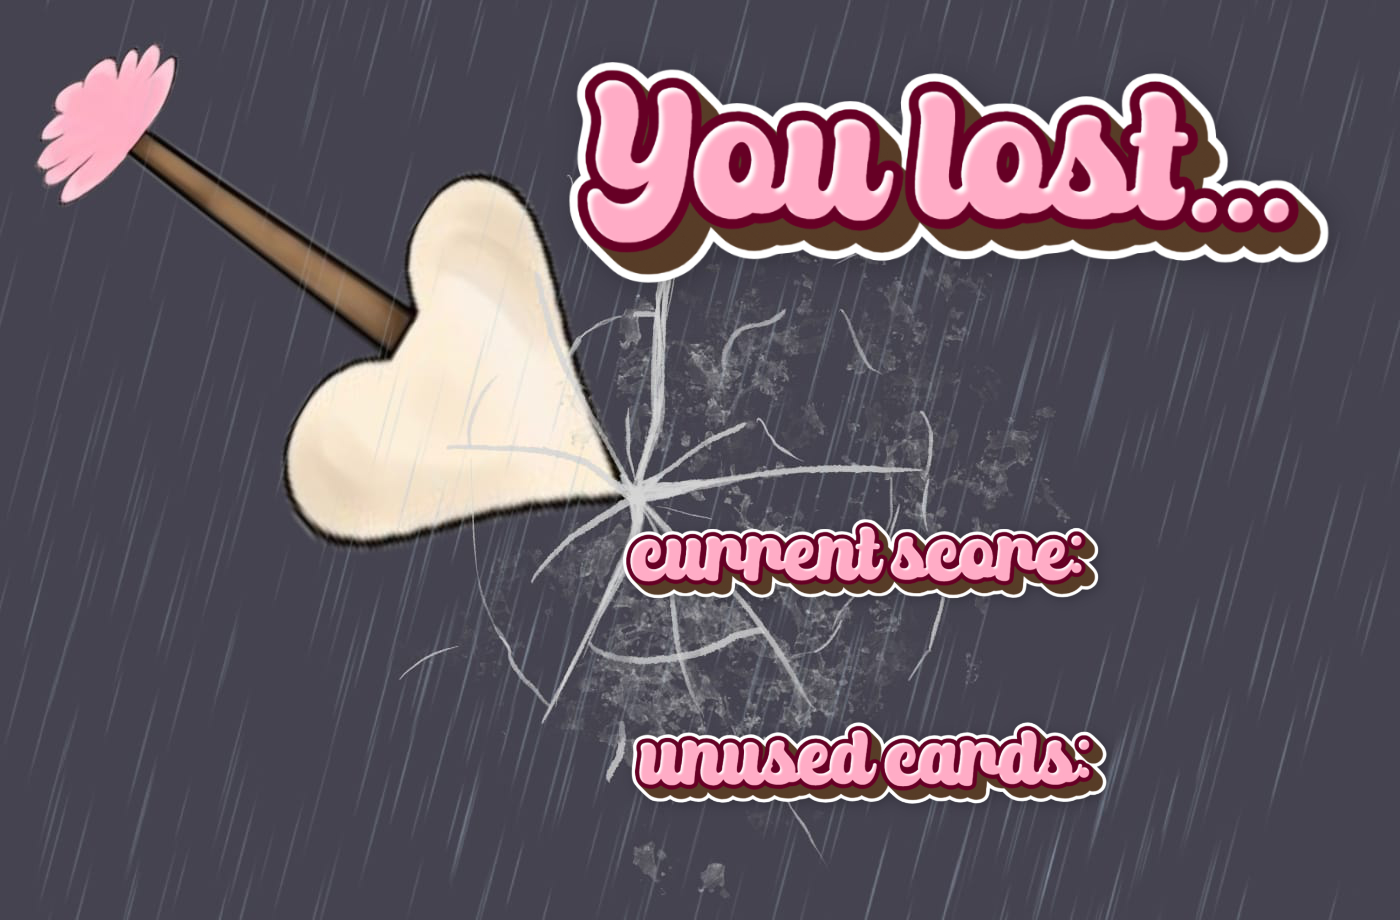
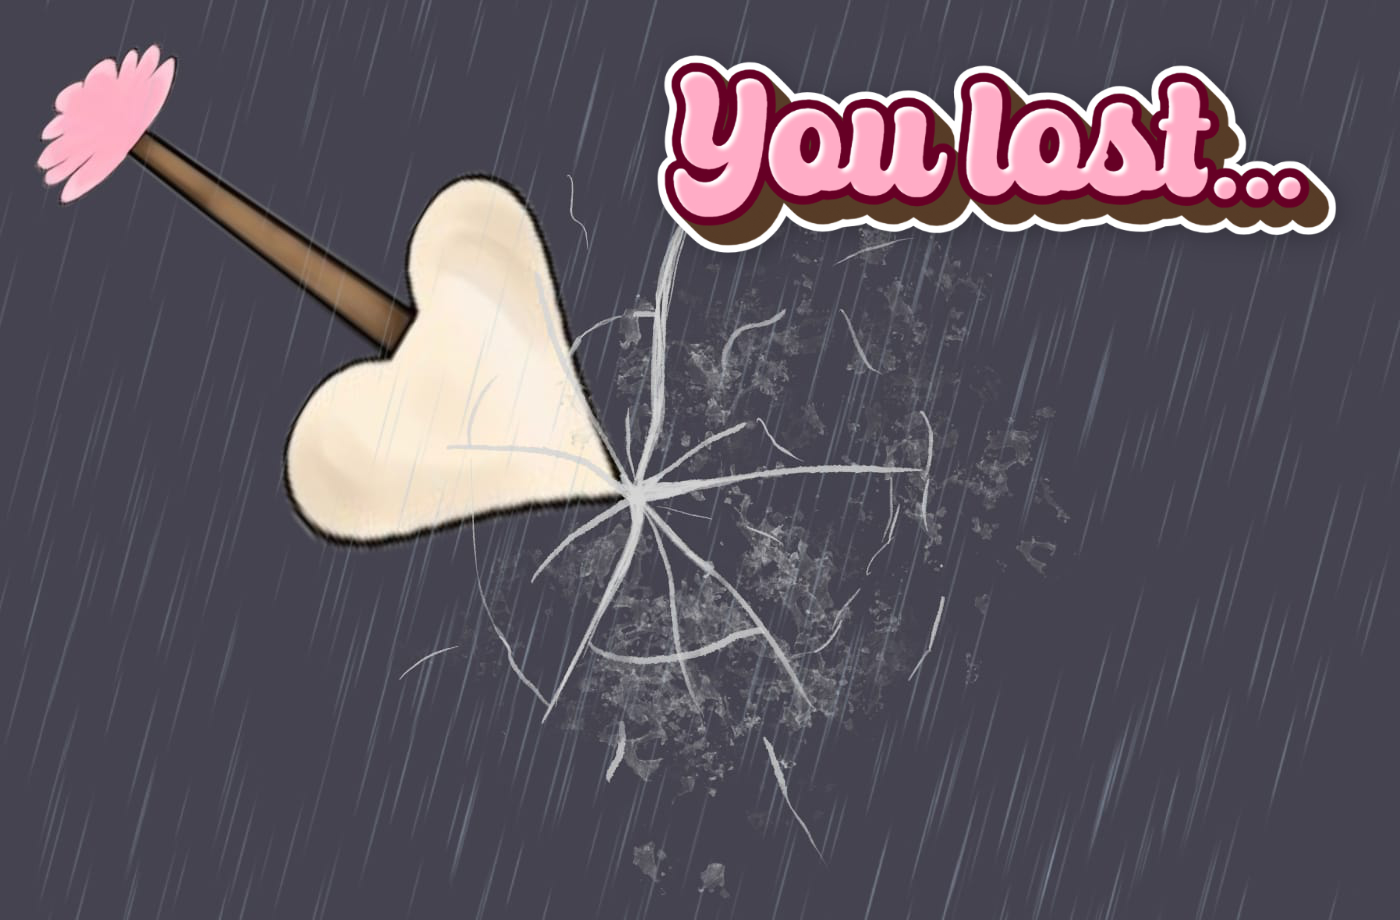
Implemented the endgame.

Changed region(s): [[0.3993, 0.0609, 0.9521, 0.3043], [0.43, 0.5478, 0.7986, 0.6696], [0.43, 0.7913, 0.7986, 0.8826]]

diff --git a/ProjectMCmock_up/GameServer.cpp b/ProjectMCmock_up/GameServer.cpp
@@ -419,7 +419,7 @@ void http::Routing::Run(UserProfiles& storage)
 			});
 	
 
-			CROW_ROUTE(m_app, "/game/<int>/state").methods(crow::HTTPMethod::GET)
+		CROW_ROUTE(m_app, "/game/<int>/state").methods(crow::HTTPMethod::GET)
 			([this, &storage](int gameId) {
 			std::lock_guard<std::mutex> lk(m_lobbyMutex);
 			auto it = m_activeGames.find(gameId);
@@ -431,8 +431,6 @@ void http::Routing::Run(UserProfiles& storage)
 
 			crow::json::wvalue resp;
 			resp["gameId"] = gameId;
-
-			// **ADD TURN INFO HERE**
 			try {
 				const Player& currentPlayer = gameInst.GetCurrentPlayer();
 				resp["currentPlayerIndex"] = gameInst.GetCurrentPlayerIndex();
@@ -444,8 +442,22 @@ void http::Routing::Run(UserProfiles& storage)
 				resp["currentPlayerId"] = -1;
 				resp["currentPlayerName"] = "Unknown";
 			}
+			auto status = gameInst.GetGameStatus();
+			switch (status) {
+			case Game::GameStatus::Won:
+				resp["gameStatus"] = "won";
+				resp["gameMessage"] = "You won!";
+				break;
+			case Game::GameStatus::Lost:
+				resp["gameStatus"] = "lost";
+				resp["gameMessage"] = "Game over - you lost";
+				break;
+			default:
+				resp["gameStatus"] = "playing";
+				resp["gameMessage"] = "Game in progress";
+			}
 
-			// piles (existing)
+			// piles
 			resp["piles"] = std::vector<crow::json::wvalue>{
 				gameInst.GetDescendingDeck1().GetNumber(),
 				gameInst.GetDescendingDeck2().GetNumber(),
@@ -453,14 +465,15 @@ void http::Routing::Run(UserProfiles& storage)
 				gameInst.GetAscendingDeck2().GetNumber()
 			};
 
-			// players (existing)
+			// players
 			std::vector<crow::json::wvalue> playersArray;
 			for (const auto& player : gameInst.GetPlayers()) {
 				crow::json::wvalue playerJson;
 				playerJson["id"] = player.GetId();
 				playerJson["username"] = player.GetUsername();
-				playerJson["cardsPlacedThisTurn"] = player.GetCardsPlacedThisTurn();
+				playerJson["cardsPlacedThisTurn"] = player.GetCardsPlacedThisTurn(); // ADAUGĂ
 
+				// hand
 				std::vector<crow::json::wvalue> handArray;
 				for (const auto& card : player.GetHand()) {
 					handArray.push_back(card.GetNumber());
@@ -524,20 +537,15 @@ void http::Routing::Run(UserProfiles& storage)
 			Game& gameInst = it->second;
 
 			try {
-				// **VALIDATE IT'S THIS PLAYER'S TURN**
-				if (gameInst.GetCurrentPlayer().GetId() != playerId) {
-					crow::json::wvalue errorResp;
-					errorResp["success"] = false;
-					errorResp["error"] = "Not your turn";
-					return crow::response(403, errorResp.dump());
-				}
-
 				Player& player = gameInst.GetPlayer(playerId);
 
 				int cardsPlaced = player.GetCardsPlacedThisTurn();
 				int cardsInDeck = gameInst.GetCardsDeck().size();
+
+				// Determină numărul minim de cărți necesare
 				int minCardsRequired = (cardsInDeck > 0) ? 2 : 1;
 
+				// Verifică dacă jucătorul a plasat numărul minim de cărți
 				if (cardsPlaced < minCardsRequired) {
 					crow::json::wvalue errorResp;
 					errorResp["success"] = false;
@@ -548,9 +556,10 @@ void http::Routing::Run(UserProfiles& storage)
 					return crow::response(400, errorResp.dump());
 				}
 
+				// Trage cărțile din teanc (număr egal cu cărțile plasate, dar max cât există)
 				int cardsToDraw = std::min(cardsPlaced, cardsInDeck);
-				std::vector<int> drawnCards;
 
+				std::vector<int> drawnCards;
 				for (int i = 0; i < cardsToDraw; i++) {
 					if (!gameInst.GetCardsDeck().empty()) {
 						Card drawnCard = gameInst.GetCardsDeck().top();
@@ -560,11 +569,9 @@ void http::Routing::Run(UserProfiles& storage)
 					}
 				}
 
+				// Reset contorul pentru următoarea tură
 				player.ResetCardsPlacedThisTurn();
-
-				// **ADVANCE TO NEXT TURN**
-				gameInst.AdvanceTurn(1);
-				const Player& nextPlayer = gameInst.GetCurrentPlayer();
+				gameInst.AdvanceTurn();
 
 				crow::json::wvalue resp;
 				resp["success"] = true;
@@ -573,32 +580,27 @@ void http::Routing::Run(UserProfiles& storage)
 				resp["cardsDrawn"] = drawnCards.size();
 				resp["cardsLeftInDeck"] = gameInst.GetCardsDeck().size();
 
-				// Include next player info
-				resp["nextPlayerId"] = nextPlayer.GetId();
-				resp["nextPlayerName"] = nextPlayer.GetUsername();
-
+				// Adaugă lista de cărți trase
 				int idx = 0;
 				for (int cardVal : drawnCards) {
 					resp["drawnCardValues"][idx++] = cardVal;
 				}
 
+				// Mesaj pentru utilizator
 				if (cardsPlaced > 0 && cardsToDraw < cardsPlaced) {
 					resp["message"] = "You placed " + std::to_string(cardsPlaced) +
 						" cards and received " + std::to_string(cardsToDraw) +
-						" cards. Next: " + nextPlayer.GetUsername();
+						" cards because that's all that remained in the deck";
 				}
 				else if (cardsToDraw > 0) {
 					resp["message"] = "You placed " + std::to_string(cardsPlaced) +
-						" cards and drew " + std::to_string(cardsToDraw) +
-						" cards. Next: " + nextPlayer.GetUsername();
+						" cards and drew " + std::to_string(cardsToDraw) + " new cards";
 				}
 
 				return crow::response{ resp.dump() };
 			}
 			catch (const std::exception& e) {
-				crow::json::wvalue errorResp;
-				errorResp["error"] = std::string("Error: ") + e.what();
-				return crow::response(500, errorResp.dump());
+				return crow::response(400, R"({"error":")" + std::string(e.what()) + "\"}");
 			}
 				});
 

diff --git a/Client/GamePage.cpp b/Client/GamePage.cpp
@@ -106,6 +106,7 @@ void GamePage::FetchHand()
 			}
 
 			ShowCards(cardsValues);
+			fetchGameState();
 		}
 		else {
 			qDebug() << "Error fetching hand:" << reply->errorString();
@@ -231,6 +232,16 @@ void GamePage::fetchGameState()
 
 		QJsonObject obj = doc.object();
 
+		QString gameStatus = obj["gameStatus"].toString();
+		if (gameStatus == "won" || gameStatus == "lost") {
+			m_pollTimer->stop();
+			m_chatTimer.stop();
+			m_stateTimer.stop();
+			openEndgamePage(gameStatus);
+			reply->deleteLater();
+			return;
+		}
+
 		int currentPlayerId = obj["currentPlayerId"].toInt();
 		QString currentPlayerName = obj["currentPlayerName"].toString();
 		bool isMyTurn = (currentPlayerId == m_playerId);
@@ -242,7 +253,7 @@ void GamePage::fetchGameState()
 		ui.deckButton->setEnabled(isMyTurn);
 
 		if (isMyTurn) {
-			this->setWindowTitle(QString("YOUR TURN | Team: %1").arg(m_allPlayerNames.join(", ")));
+			this->setWindowTitle(QString("Your turn | Team: %1").arg(m_allPlayerNames.join(", ")));
 		}
 		else {
 			this->setWindowTitle(QString("%1's turn | Team: %2")
@@ -265,9 +276,9 @@ void GamePage::fetchGameState()
 		}
 
 		reply->deleteLater();
+		
 		});
 }
-
 
 void GamePage::shuffleDeck()
 {
@@ -369,7 +380,7 @@ void GamePage::initializeGame(int playerId,const QString& playerName, int gameId
 	updatePileVisual(ui.DescendingDeck1Number, 100);
 	updatePileVisual(ui.DescendingDeck2Number, 100);
 
-	fetchGameState();
+	//fetchGameState();
 
 }
 
@@ -487,6 +498,14 @@ void GamePage::checkTimers()
 		fetchGameState();
 		m_stateTimer.start(2);  // Restart pentru următorul ciclu
 	}
+}
+
+void GamePage::openEndgamePage(QString gameStatus)
+{
+
+	endgamePage = new EndgamePage(m_playerId, gameStatus,"http://127.0.0.1:18080", nullptr);
+	endgamePage->show();
+	this->close();
 }
 
 

diff --git a/ProjectMCmock_up/MinigameTimerState.h b/ProjectMCmock_up/MinigameTimerState.h
@@ -1,0 +1,7 @@
+-lexerul sparge codul in tokeni (unit lexicala, o categorie de siruri de  caract cu aceeasi semnificatie)
+-parserul verifica structura programului -> construieste un arbore de parsare
+-SyntaxAnalyzer de la noi face analiza semantica pe arborele creat de parser
+-VisitDeclaration analizează declarațiile locale, verifică erori semantice (dubluri, conflicte, tipuri, const) și înregistrează variabilele în scope-ul funcției curente.
+-VisitMethodDeclaration analizează o funcție: înregistrează parametrii, verifică corpul, return-ul, recursivitatea și gestionează scope-ul variabilelor.
+-VisitMethodDeclaration analizează o funcție: adaugă parametrii în scope, verifică corpul, return-ul și recursivitatea, apoi curăță scope-ul.
+-Analizatorul semantic parcurge arborele sintactic folosind Visitor Pattern și verifică regulile semantice ale programului.

diff --git a/ProjectMCmock_up/GAME.CPP b/ProjectMCmock_up/GAME.CPP
@@ -271,6 +271,23 @@ const Player& Game::GetCurrentPlayer() const
 	return m_players[m_currentPlayerIndex % m_players.size()];
 }
 
+Game::GameStatus Game::GetGameStatus() const
+{
+	if (m_cardsDeck.empty()) {
+		bool allHandsEmpty = true;
+		for (const auto& player : m_players) {
+			if (!player.GetHand().empty()) {
+				allHandsEmpty = false;
+				break;
+			}
+		}
+		if (allHandsEmpty) {
+			return GameStatus::Won;
+		}
+	}
+	return GameStatus::Playing;
+}
+
 void Game::SetCurrentPlayerIndex(size_t index)
 {
 	if (m_players.empty())
@@ -286,4 +303,9 @@ void Game::AdvanceTurn(int steps)
 	int idx = static_cast<int>(m_currentPlayerIndex);
 	idx = (idx + (steps % n) + n) % n;
 	m_currentPlayerIndex = static_cast<size_t>(idx);
+}
+
+bool Game::IsGameOver() const
+{
+	return GetGameStatus() != GameStatus::Playing;
 }

diff --git a/ProjectMCmock_up/Game.h b/ProjectMCmock_up/Game.h
@@ -8,6 +8,11 @@
 class Game
 {
 public:
+	enum class GameStatus {
+		Playing,
+		Won,
+		Lost
+	};
 	Game(const std::vector<Player>& players, const std::stack<Card>& cardsDeck, const Chat& chat);
 	Game() = default;
 	void ShuffleCards();
@@ -36,9 +41,11 @@ public:
 	size_t GetCurrentPlayerIndex() const;
 	Player& GetCurrentPlayer();
 	const Player& GetCurrentPlayer() const;
+	GameStatus GetGameStatus() const;
 
 	void SetCurrentPlayerIndex(size_t index);
 	void AdvanceTurn(int steps = 1);
+	bool IsGameOver() const;
 private:
 	std::vector<Player> m_players;
 	std::stack<Card> m_cardsDeck;
@@ -48,5 +55,6 @@ private:
 	bool m_areCardsShuffled;
 	GameTimer m_chatTimer;
 	size_t m_currentPlayerIndex;
+	
 };
 

diff --git a/Client/GamePage.h b/Client/GamePage.h
@@ -8,7 +8,7 @@
 #include "ui_GamePage.h"
 #include <thread>
 #include <atomic>
-
+#include "EndgamePage.h"
 
 
 
@@ -28,14 +28,13 @@ public:
 	void DistributeCards();
 	void updatePileVisual(QLabel* pileLabel, int cardValue);
 	void fetchGameState();
-	
 private slots:
 	void onSendClicked();
 	void fetchMessages();
 	void onPileClicked(int pileId, QLabel* pileLabel);
 	void onDrawCardClicked();
 	void checkTimers();
-
+	void openEndgamePage(QString gameStatus);
 
 private:
 	Ui::GameClass ui;
@@ -58,5 +57,6 @@ private:
 	QString m_playerName; 
 
 	void initializeGame(int playerId,const QString& playerName, int gameId, int opponentId);
+	EndgamePage* endgamePage;
 };
 

diff --git a/Client/EndgamePage.cpp b/Client/EndgamePage.cpp
@@ -1,9 +1,13 @@
 #include "EndgamePage.h"
 
-EndgamePage::EndgamePage(QWidget *parent)
-	: QDialog(parent)
+
+EndgamePage::EndgamePage(int playerId, QString gameEnding, const QString& serverUrl, QWidget* parent)
 {
 	ui.setupUi(this);
+	gameEnding == "won" ?
+		this->setStyleSheet("background-image: url(:/images/win_background.jpg);"):
+		this->setStyleSheet("background-image: url(:/images/lose_background.jpg);");
+	
 }
 
 EndgamePage::~EndgamePage()

diff --git a/Client/EndgamePage.h b/Client/EndgamePage.h
@@ -3,12 +3,13 @@
 #include <QDialog>
 #include "ui_EndgamePage.h"
 
+
 class EndgamePage : public QDialog
 {
 	Q_OBJECT
 
 public:
-	EndgamePage(QWidget *parent = nullptr);
+	EndgamePage(int playerId, QString gameEnding, const QString& serverUrl, QWidget* parent = nullptr);
 	~EndgamePage();
 
 private:
